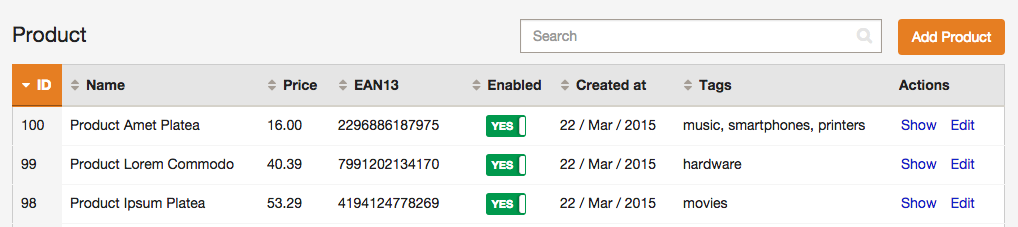
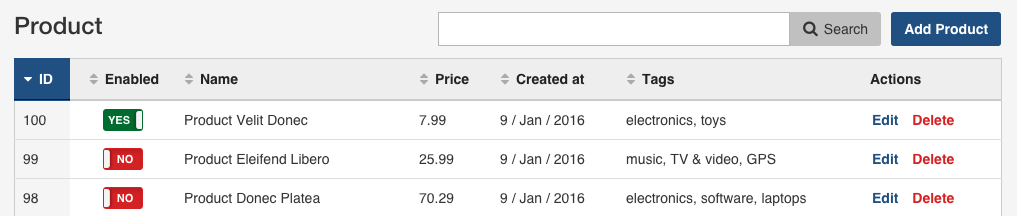
Updated images for the new theme

diff --git a/README.md b/README.md
@@ -13,7 +13,7 @@ EasyAdmin
 [![Coverage Status](https://coveralls.io/repos/javiereguiluz/EasyAdminBundle/badge.svg?branch=master)](https://coveralls.io/r/javiereguiluz/EasyAdminBundle?branch=master)
 <sup><kbd>**SUPPORTS SYMFONY 2.x and 3.x**</kbd></sup>
 
-<img src="https://cloud.githubusercontent.com/assets/73419/5748254/e0697de0-9c3e-11e4-8b42-792a25538676.png" alt="EasyAdmin creates Symfony Backends" title="EasyAdmin" align="right" />
+<img src="https://raw.githubusercontent.com/javiereguiluz/EasyAdminBundle/master/Resources/doc/images/easyadmin-default-backend.png" alt="Symfony Backends created with EasyAdmin" align="right" />
 
 EasyAdmin lets you create administration backends for Symfony applications
 with unprecedented simplicity.
@@ -28,7 +28,7 @@ with unprecedented simplicity.
 
 **Requirements**
 
-  * Symfony 2.3+ applications (Silex not supported).
+  * Symfony 2.3+ applications (including Symfony 3).
   * Doctrine ORM entities (Doctrine ODM and Propel not supported).
   * Entities with simple primary keys (composite keys not supported).
   * Entities using inheritance are not supported.
@@ -126,7 +126,7 @@ Your First Backend
 
 Creating your first backend will take you less than 30 seconds. Let's suppose
 that your Symfony application defines three Doctrine ORM entities called
-`Customer`, `Order` and `Product`.
+`Product`, `Category` and `User`.
 
 Creating the backend for those entities just require you to add the following
 configuration in the `app/config/config.yml` file:
@@ -135,16 +135,16 @@ configuration in the `app/config/config.yml` file:
 # app/config/config.yml
 easy_admin:
     entities:
-        - AppBundle\Entity\Customer
-        - AppBundle\Entity\Order
         - AppBundle\Entity\Product
+        - AppBundle\Entity\Category
+        - AppBundle\Entity\User
 ```
 
 **Congratulations! You've just created your first fully-featured backend!**
 Browse the `/admin` URL in your Symfony application and you'll get access to
 the admin backend:
 
-![Default listing interface](https://raw.githubusercontent.com/javiereguiluz/EasyAdminBundle/master/Resources/doc/images/easyadmin-list-view.png)
+![Default EasyAdmin Backend interface](https://raw.githubusercontent.com/javiereguiluz/EasyAdminBundle/master/Resources/doc/images/easyadmin-default-backend.png)
 
 Creating a backend is that simple because EasyAdmin doesn't generate any code.
 All resources are served on-the-fly to ensure an exceptional developer

diff --git a/Resources/doc/getting-started/2-first-backend.md b/Resources/doc/getting-started/2-first-backend.md
@@ -3,7 +3,7 @@ Chapter 2. Your First Backend
 
 Creating your first backend will take you less than 30 seconds. Let's suppose
 that your Symfony application defines three Doctrine ORM entities called
-`Customer`, `Order` and `Product`.
+`Product`, `Category` and `User`.
 
 Creating the backend for those entities just require you to add the following
 configuration in the `app/config/config.yml` file:
@@ -12,9 +12,9 @@ configuration in the `app/config/config.yml` file:
 # app/config/config.yml
 easy_admin:
     entities:
-        - AppBundle\Entity\Customer
-        - AppBundle\Entity\Order
         - AppBundle\Entity\Product
+        - AppBundle\Entity\Category
+        - AppBundle\Entity\User
 ```
 
 **Congratulations! You've just created your first fully-featured backend!**

diff --git a/Resources/doc/getting-started/5-design-customization.md b/Resources/doc/getting-started/5-design-customization.md
@@ -64,9 +64,7 @@ easy_admin:
 ![The default backend homepage using the light color scheme](../images/easyadmin-design-color-scheme-light.png)
 
 Combine the `light` color scheme with the `brand_color` option to get a myriad
-of new backend designs:
-
-![Combining the light color scheme with a colorful palette](../images/easyadmin-design-brand-color-light-theme.png)
+of new backend designs.
 
 Customizing Form Design
 -----------------------

diff --git a/Resources/doc/getting-started/4-views-and-actions.md b/Resources/doc/getting-started/4-views-and-actions.md
@@ -46,8 +46,8 @@ includes four actions as buttons or links:
 These are the actions included by default in each view:
 
 | View   | Actions
-| ------ | ---------------------------------------
-| `list` | `edit`, `list`, `new`, `search`, `show`
+| ------ | -----------------------------------------
+| `list` | `delete`, `edit`, `list`, `new`, `search`
 | `edit` | `delete`, `list`
 | `new`  | `list`
 | `show` | `delete`, `edit`, `list`
